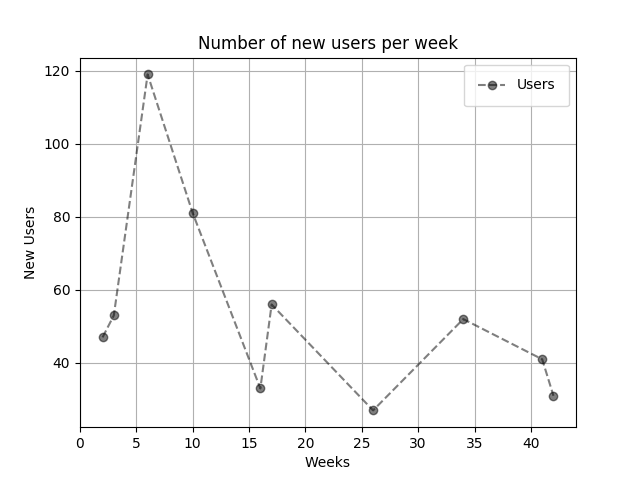
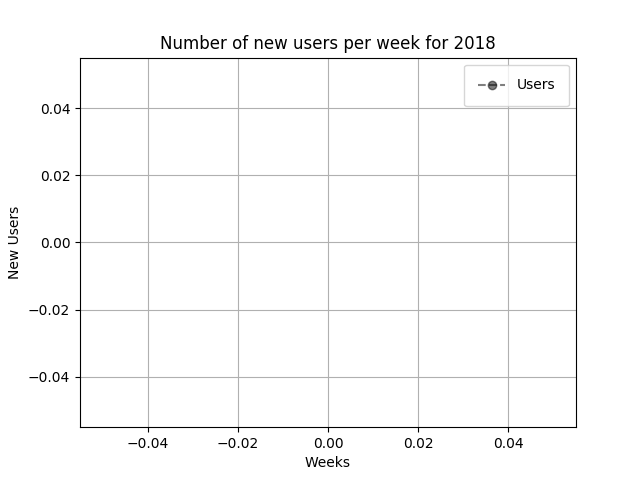
display current viewing year

diff --git a/stats/CsvController.py b/stats/CsvController.py
@@ -64,7 +64,7 @@ class CsvController:
         plt.grid(True)
         plt.xlabel('Weeks')
         plt.ylabel('New Users')
-        plt.title('Number of new users per week')
+        plt.title('Number of new users per week for ' + self.yearNum)
         plt.legend(loc='upper right', borderpad=1)   
         plt.savefig('stats/static/images/graph.png')
         plt.close()
